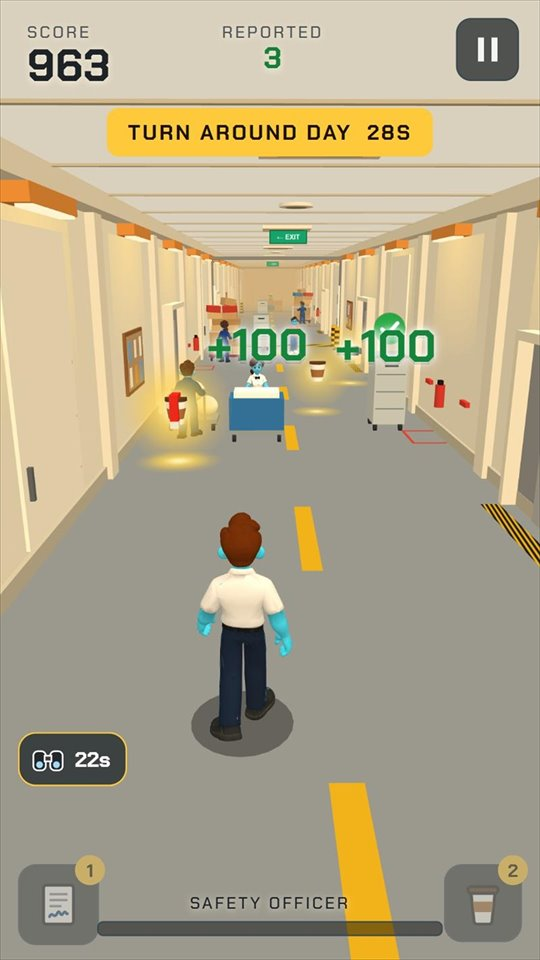
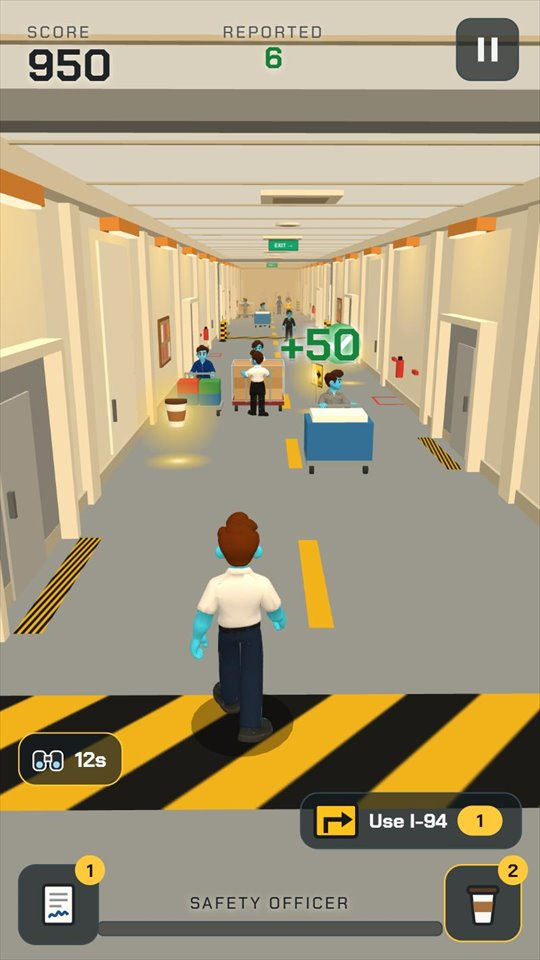
Match the game: 50 points a report, 15 s binoculars, 44 achievements, the I-94 detour

diff --git a/index.html b/index.html
@@ -80,7 +80,7 @@
   .pill small { font: 600 12px var(--body); letter-spacing: .08em; text-transform: uppercase; margin-left: 8px; color: var(--muted); }
 
   /* pick-ups */
-  .picks { display: grid; grid-template-columns: repeat(4, 1fr); gap: 16px; margin-top: 34px; }
+  .picks { display: grid; grid-template-columns: repeat(5, 1fr); gap: 14px; margin-top: 34px; }
   .picks .card { padding: 20px; }
   .picks h3 { font-size: 16px; color: var(--yellow); }
 
@@ -93,6 +93,7 @@
     .art { max-width: 420px; order: -1; }
     .rules { grid-template-columns: 1fr; }
     .picks { grid-template-columns: 1fr 1fr; }
+    .picks .card:last-child { grid-column: 1 / -1; }
     section { padding: 50px 0; }
   }
   @media (prefers-reduced-motion: reduce) { html { scroll-behavior: auto; } }
@@ -127,7 +128,7 @@
     <div class="rules">
       <div class="card"><div class="num">01</div><h3>Swipe to weave</h3><p>Step left and right between waiters, deck crew and loaded trolleys. Bump into someone and you lose pace and 200 points. Hit a trolley and it's off to Medical.</p></div>
       <div class="card"><div class="num">02</div><h3>Stay ahead</h3><p>The Safety Officer walks at the pace you should be keeping. Slow down and he closes in. When he raises his hand, you are nearly out of time.</p></div>
-      <div class="card"><div class="num">03</div><h3>Tap to report</h3><p>The corridor is full of people breaking the rules. Spot one, tap it, and it's worth more than a hundred metres of running.</p></div>
+      <div class="card"><div class="num">03</div><h3>Tap to report</h3><p>The corridor is full of people breaking the rules. Spot one, tap it, and you score. Get it wrong and it costs you three times as much.</p></div>
     </div>
   </div>
 </section>
@@ -138,11 +139,11 @@
     <h2>A shift on the I-95</h2>
     <div class="shots">
       <figure><img src="img/4-safety-officer.jpg" width="540" height="960" loading="lazy" alt="The Safety Officer reaching for the player from behind, with the chase bar red"><figcaption>He is right behind you</figcaption></figure>
-      <figure><img src="img/2-report.jpg" width="540" height="960" loading="lazy" alt="A crew member wearing headphones marked with a green tick and plus 100 points"><figcaption>Report what you spot</figcaption></figure>
+      <figure><img src="img/2-report.jpg" width="540" height="960" loading="lazy" alt="An overloaded trolley marked with a green tick and plus 50 points"><figcaption>Report what you spot</figcaption></figure>
       <figure><img src="img/3-turn-around-day.jpg" width="540" height="960" loading="lazy" alt="Pallets of provisions blocking the corridor under a Turn Around Day countdown"><figcaption>Turn Around Day</figcaption></figure>
-      <figure><img src="img/5-binoculars.jpg" width="540" height="960" loading="lazy" alt="Glowing coffee and a magnet in the corridor while binoculars report violations automatically"><figcaption>Pick up what helps</figcaption></figure>
+      <figure><img src="img/5-binoculars.jpg" width="540" height="960" loading="lazy" alt="A glowing coffee in the corridor while binoculars report violations, with the Use I-94 button ready"><figcaption>Pick up what helps</figcaption></figure>
       <figure><img src="img/1-corridor.jpg" width="540" height="960" loading="lazy" alt="The crew corridor with trolleys, crew and a glowing signature sheet"><figcaption>The corridor</figcaption></figure>
-      <figure><img src="img/6-achievements.jpg" width="540" height="960" loading="lazy" alt="The achievements list with several completed"><figcaption>39 achievements</figcaption></figure>
+      <figure><img src="img/6-achievements.jpg" width="540" height="960" loading="lazy" alt="The achievements list with several completed"><figcaption>44 achievements</figcaption></figure>
     </div>
   </div>
 </section>
@@ -155,7 +156,7 @@
       <div class="eyebrow">Keep your eyes open</div>
       <h2>Spot it. Tap it. Report it.</h2>
       <p class="intro">Every one of these is a safety observation. Report it and you score. Report someone who is doing nothing wrong and it costs you more than you would have won.</p>
-      <div class="score"><span class="pill good">+100<small>correct report</small></span><span class="pill bad">&minus;150<small>false report</small></span></div>
+      <div class="score"><span class="pill good">+50<small>correct report</small></span><span class="pill bad">&minus;150<small>false report</small></span></div>
     </div>
     <ul>
       <li>A trolley stacked above head height</li>
@@ -175,7 +176,8 @@
       <div class="card"><h3>Coffee</h3><p>A burst of speed to shake the Safety Officer off.</p></div>
       <div class="card"><h3>Signature sheet</h3><p>A second chance when you hit a trolley, if you use it in time.</p></div>
       <div class="card"><h3>Magnet</h3><p>For 30 seconds, everything worth collecting comes to you.</p></div>
-      <div class="card"><h3>Binoculars</h3><p>For 30 seconds, every violation that comes near is reported for you.</p></div>
+      <div class="card"><h3>Binoculars</h3><p>For 15 seconds, every violation that comes near is reported for you.</p></div>
+      <div class="card"><h3>Use I-94</h3><p>A detour sign. Keep it, and use it to skip the rest of a Turn Around Day.</p></div>
     </div>
     <p class="intro" style="margin-top: 28px">And then there is your phone. The score counts double while it is in your hand, but you can barely see where you are going.</p>
   </div>
